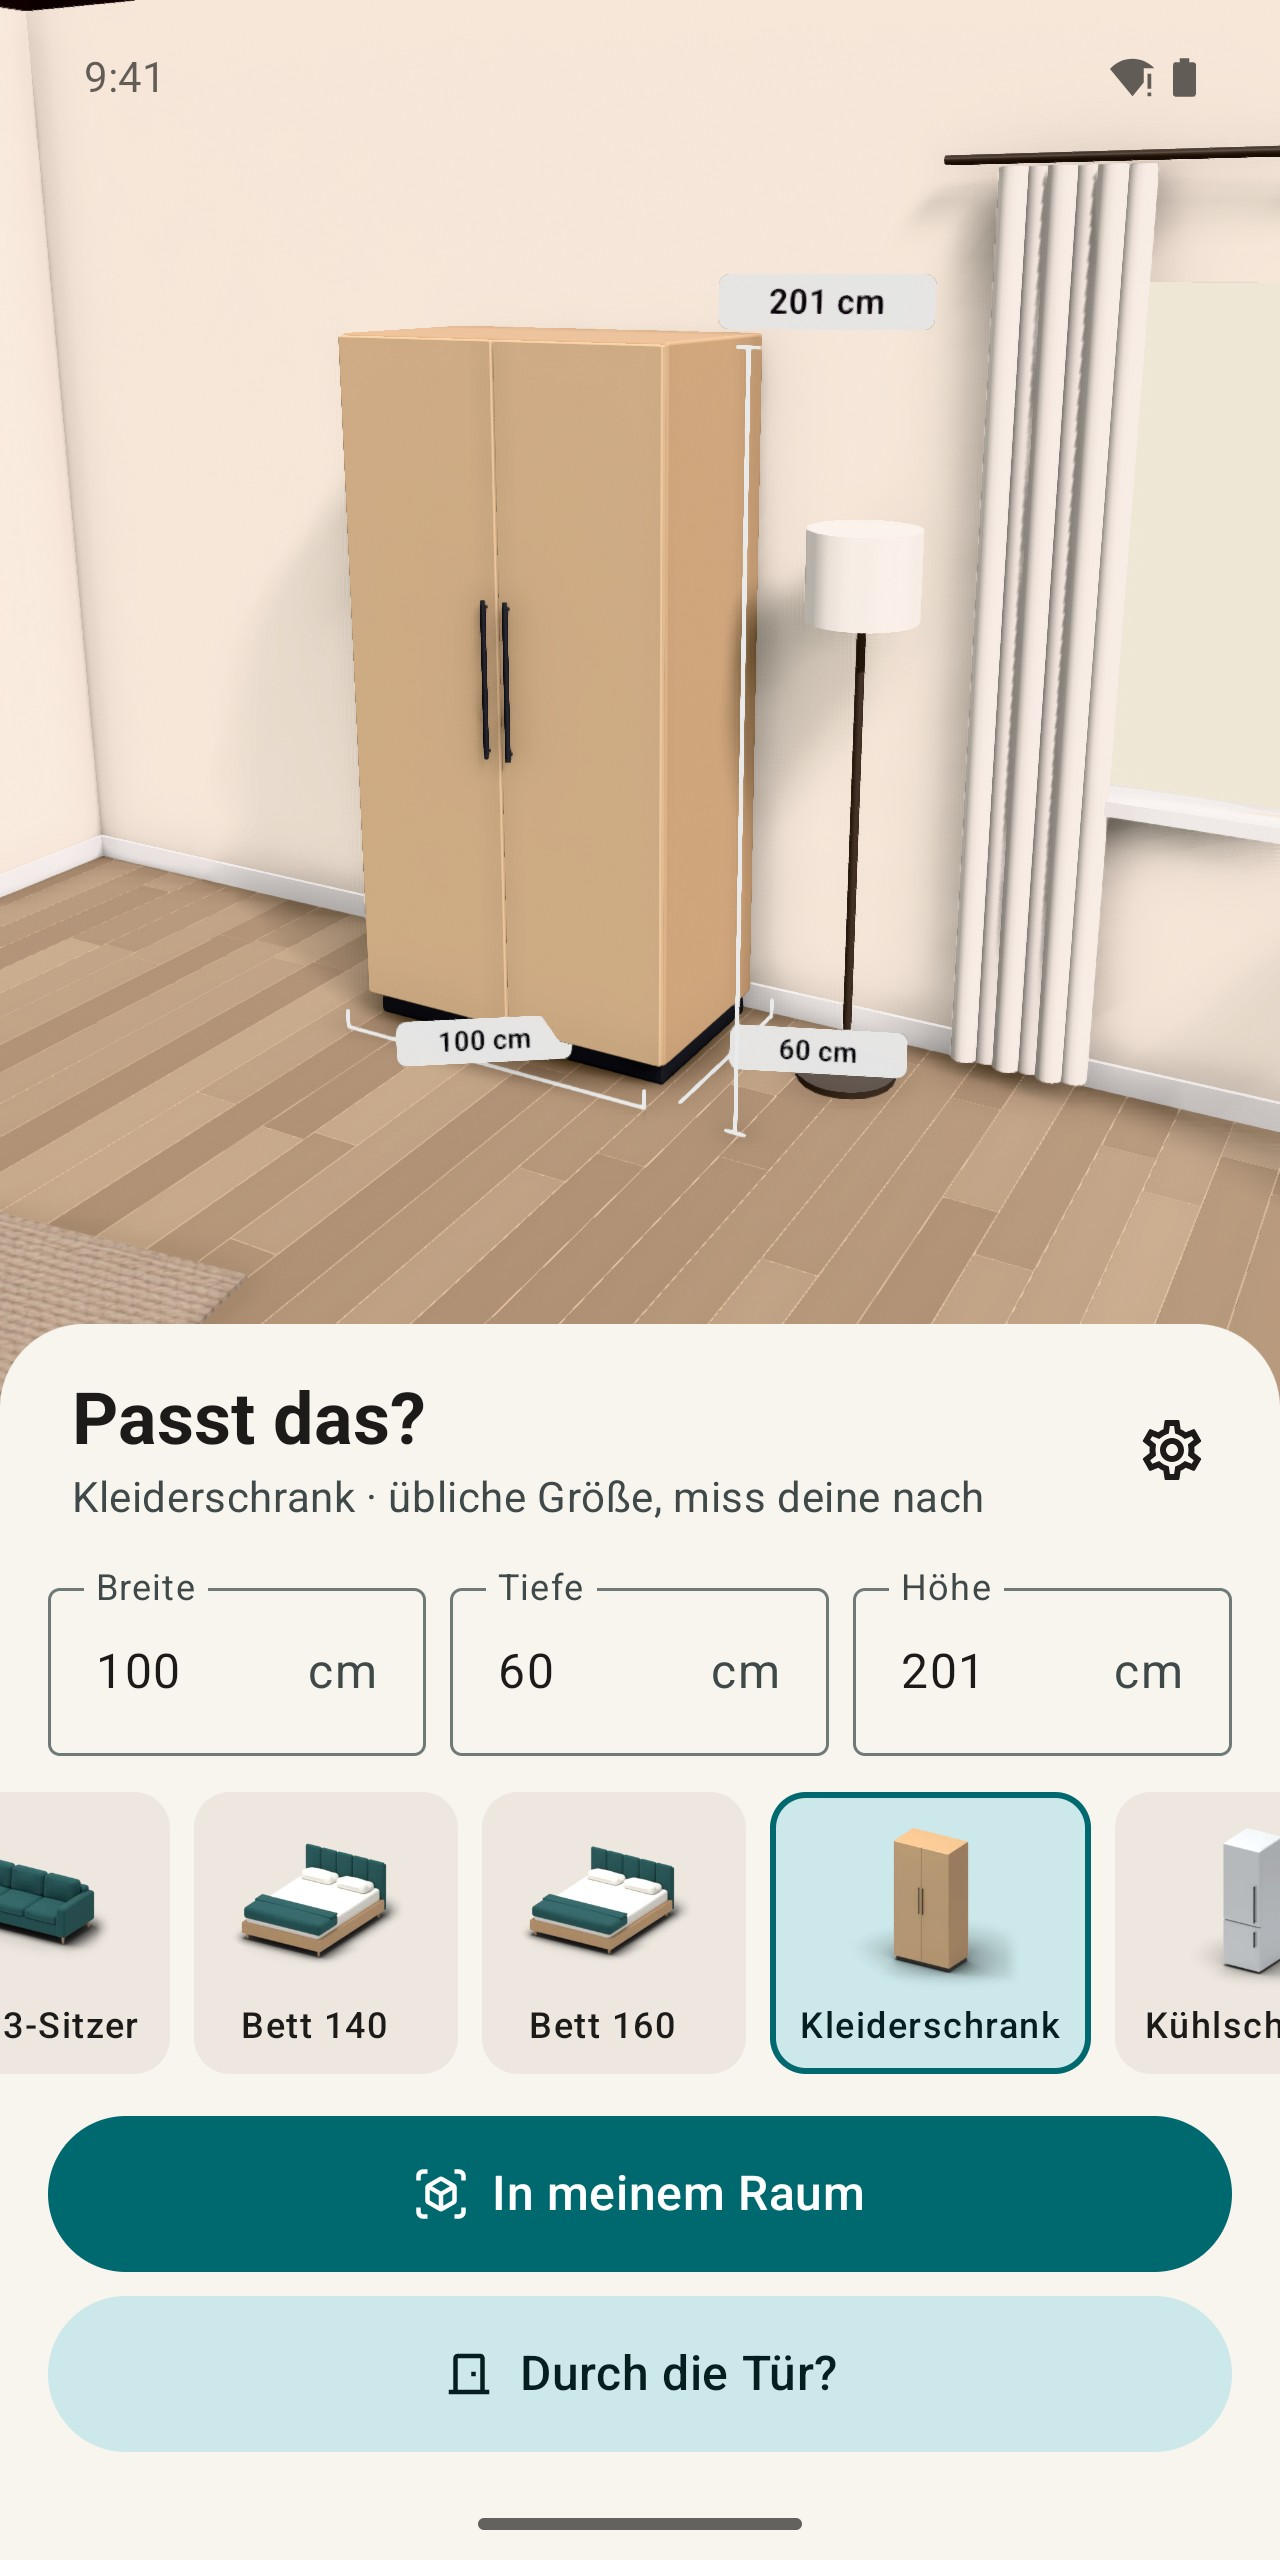
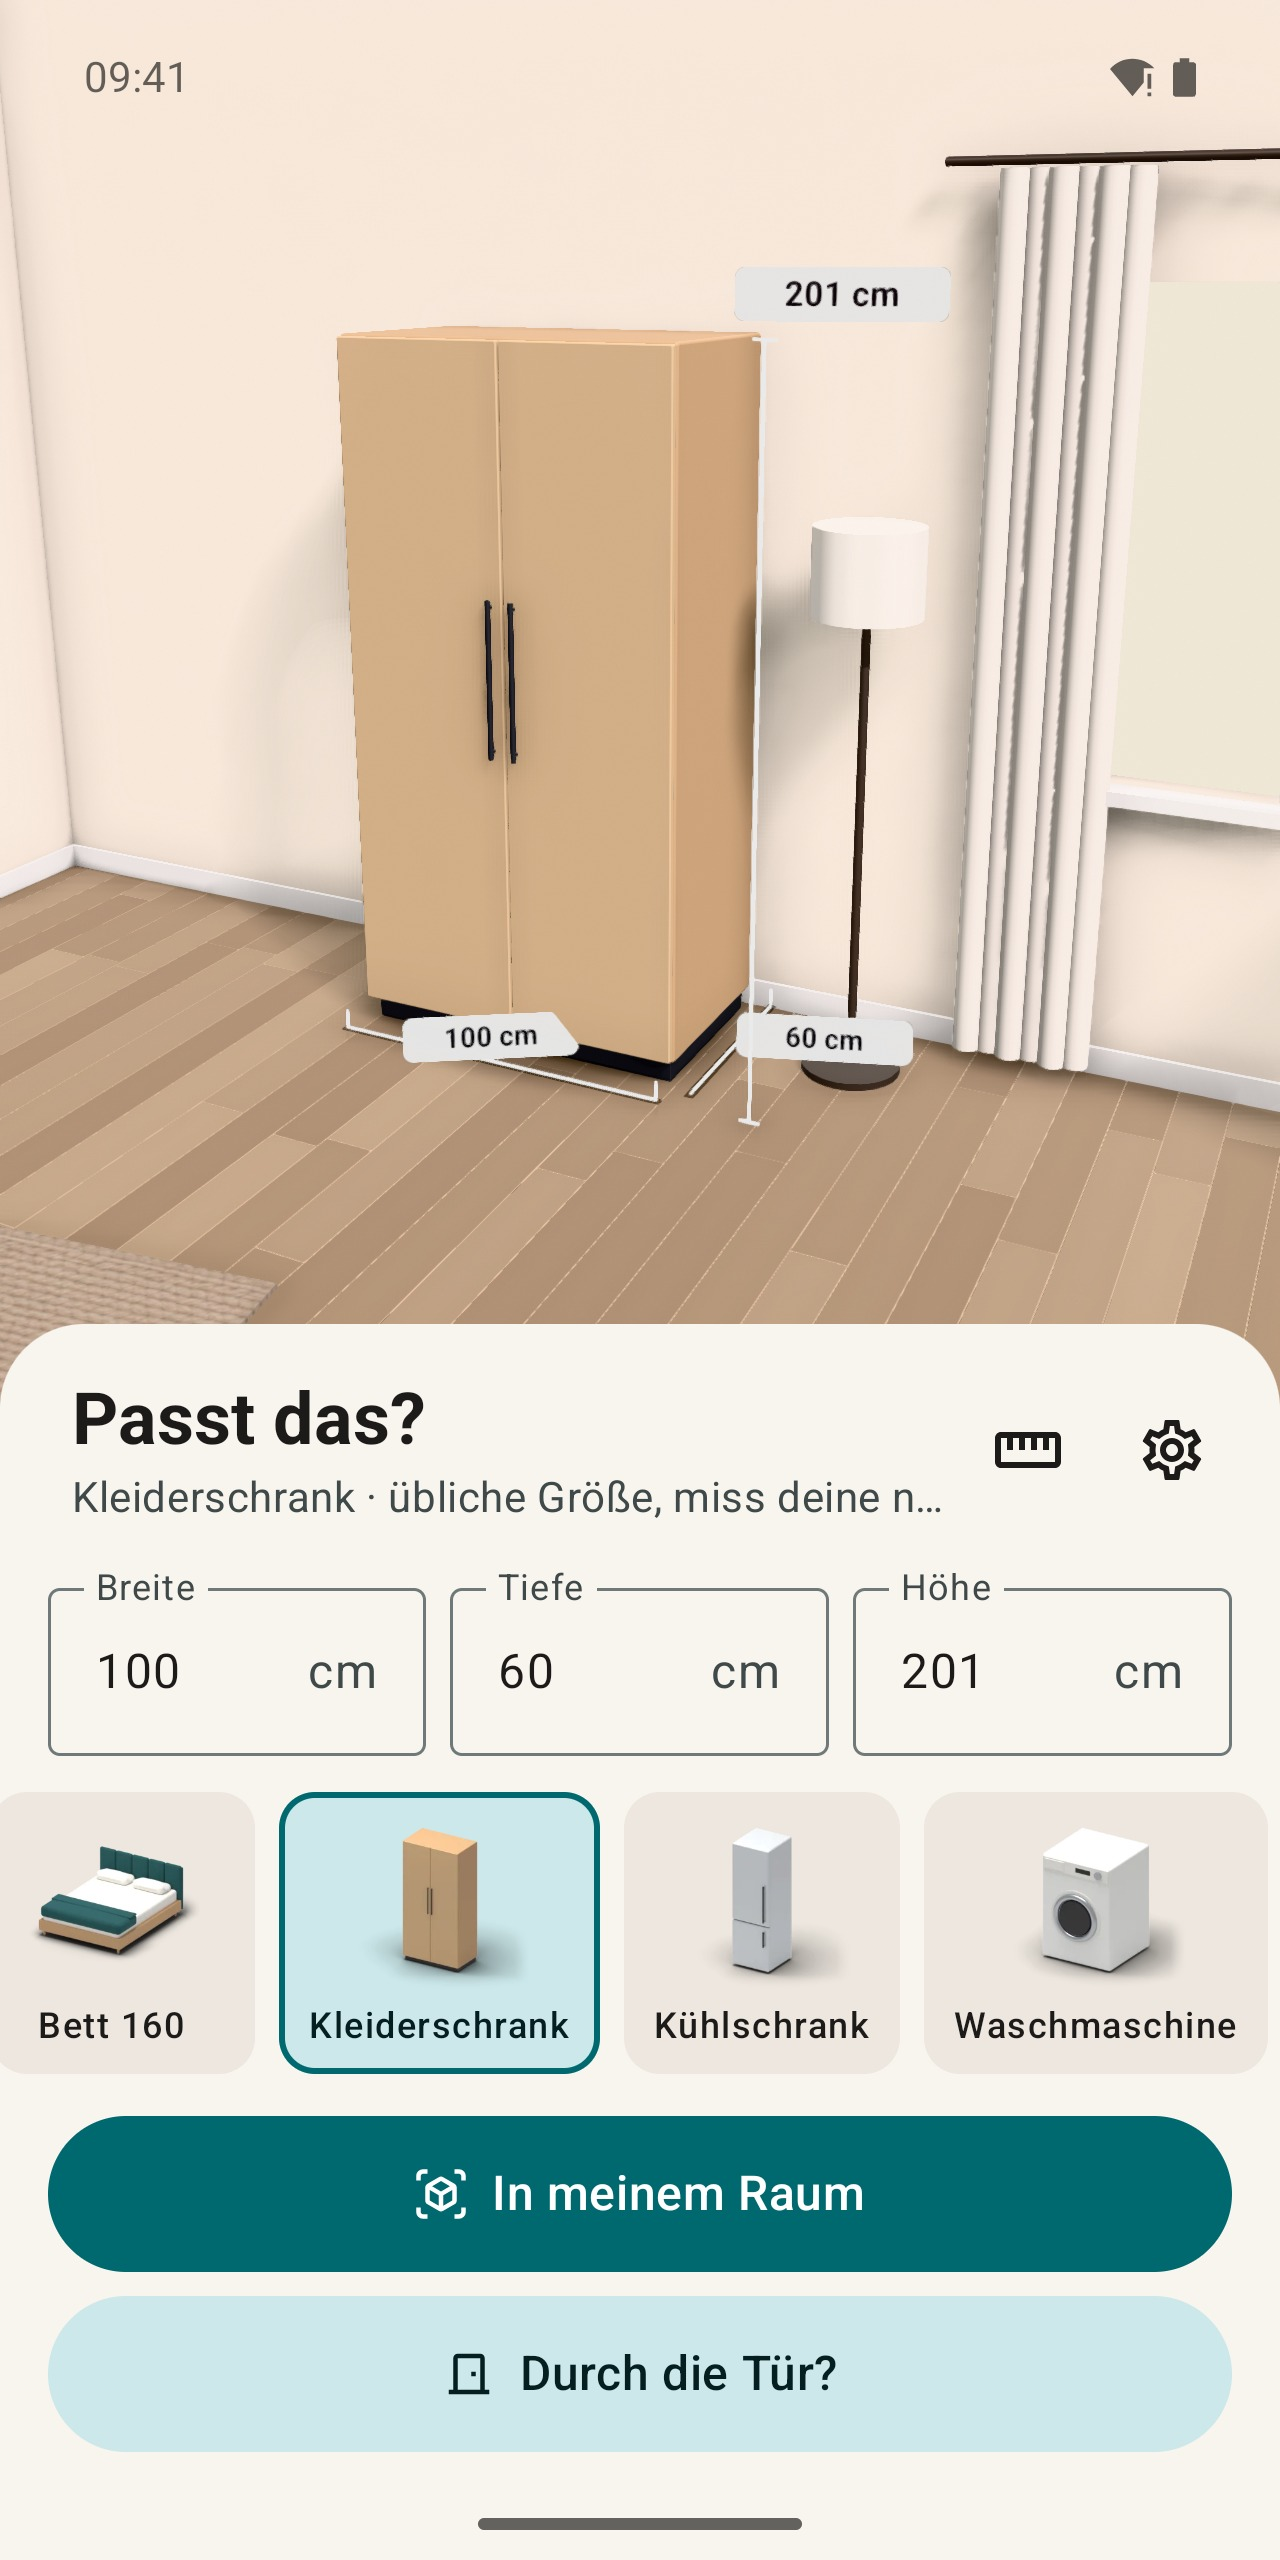
Play shot 3: the preset row shows whole labels in all six locales
Retaken on the emulator from 9b88cf2 (demo clock 9:41, 1280x2560). The row is dragged a few
pixels per locale so no label is cut at either edge: "3 seats" and "Fridge" were cut before,
and "Waschmaschine" in German. Frames rebuilt with make_frames.py.

diff --git a/store/play/README.md b/store/play/README.md
@@ -8,7 +8,9 @@ feature-graphic.png is 1024×500 RGB; made with the built-in image generation to
 
 Phone screenshots (`screenshots/phone/<locale>/1-sofa.jpg`…`5-dark.jpg`, 1280×2560, 2:1, cm): one
 series per locale with the app UI in that language (en-US uses the en-GB UI, for centimetres), taken
-on the Pixel 7a emulator on 2026-11-15, status bar in demo mode (9:41), all five from build `1d271e5`.
+on the Pixel 7a emulator on 2026-11-15, status bar in demo mode (9:41), from build `1d271e5`; shot 3
+(wardrobe) retaken on 2026-11-23 from `9b88cf2`, its preset row dragged a few pixels per locale so no
+label is cut at either edge.
 The room sways, so each shot is a burst; en-US frames are picked by eye and every other locale takes
 its burst frame closest to the en-US pick, so the six series share one composition. The emulator
 image ships with animations off: the door shot needs `animator_duration_scale` 1, or the object
